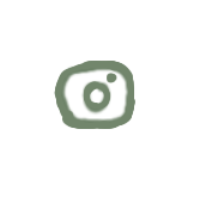
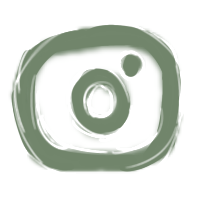
app - social media pngs

diff --git a/src/App.tsx b/src/App.tsx
@@ -15,6 +15,12 @@ import searchIcon from './assets/search_unselected.png';
 import addCatIcon from './assets/addCat_selected.PNG';
 import mapIcon from './assets/catMap_unselected.png';
 import profileIcon from './assets/userProfile_unselected.png';
+// Import the new social media icons
+import instagramIcon from './assets/instagram.PNG';
+import discordIcon from './assets/discord.PNG';
+import facebookIcon from './assets/facebook.PNG';
+import twitterIcon from './assets/twitter.PNG';
+
 
 const App: React.FC = () => {
   const [imageFile, setImageFile] = useState<File | null>(null);
@@ -65,18 +71,18 @@ const App: React.FC = () => {
       setIsLoading(false);
     }
   }, [imageFile]);
-  
+
   // --- Handler for the matching feature ---
   const handleMatchClick = useCallback(async () => {
     if (!imageFile) {
       setMatchError('Image file is missing.');
       return;
     }
-    
+
     setIsMatching(true);
     setMatchResult(null);
     setMatchError(null);
-    
+
     try {
       const { base64, mimeType } = await fileToBase64(imageFile);
       const result = await findMatchingCat(base64, mimeType);
@@ -113,7 +119,7 @@ const App: React.FC = () => {
       {/* This is the main container, styled to look like a phone */}
       <div className="w-[393px] h-[852px] bg-[#6C8167] rounded-[40px] shadow-2xl border-4 border-black overflow-hidden relative flex flex-col">
 
-        {/* Header with Logo */}
+        {/* Header with Logo and Social Icons */}
         <header className="absolute top-0 left-0 right-0 z-10 bg-[#E9DDCD] py-2 shadow-md">
           <div className="flex justify-center items-center text-center">
             <img src={meowtionSensorLogo} alt="Meowtion Sensor Logo" className="h-12 w-12 mr-2"/>
@@ -121,9 +127,17 @@ const App: React.FC = () => {
               <h1 className="text-3xl font-bold tracking-wider text-[#BE956C]">
                 MEOWTION SENSOR
               </h1>
-              <p className="text-sm tracking-widest text-[#98522C]">
-                catsofUTA
-              </p>
+              {/* Container for subtitle and social icons */}
+              <div className="flex justify-center items-center space-x-2 mt-1">
+                <p className="text-sm tracking-widest text-[#98522C] font-bold">
+                  catsofUTA
+                </p>
+                {/* Social Icons - Returned to normal size */}
+                <img src={instagramIcon} alt="Instagram" className="h-4 w-4 cursor-pointer" />
+                <img src={discordIcon} alt="Discord" className="h-4 w-4 cursor-pointer" />
+                <img src={facebookIcon} alt="Facebook" className="h-4 w-4 cursor-pointer" />
+                <img src={twitterIcon} alt="Twitter" className="h-4 w-4 cursor-pointer" />
+              </div>
             </div>
           </div>
         </header>
